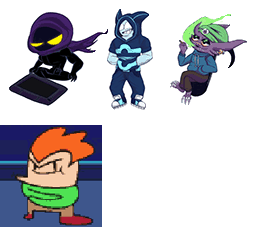
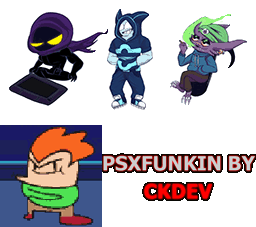
more menu work

Changed region(s): [[0.375, 0.6784, 1.0, 0.7709], [0.5312, 0.8018, 0.8438, 0.8943]]

diff --git a/src/menu.c b/src/menu.c
@@ -167,7 +167,7 @@ static void Menu_Tab(s8 *movetab, boolean moving, boolean flip, u16 x, u8 y)
 	if (flip)
 	tab_dst.h = -tab_dst.h;
 
-    FntPrint("movetab %d", *movetab);
+   // FntPrint("movetab %d", *movetab);
 
 	//draw tab
 	Gfx_DrawTex(&menu.tex_menu0, &tab_src, &tab_dst);
@@ -424,7 +424,6 @@ void Menu_Tick(void)
 	{
 		case MenuPage_Opening:
 		{
-             menu.swapmusic = false;
 			u16 beat = stage.song_step >> 2;
 			
 			//Start title screen if opening ended
@@ -549,6 +548,7 @@ void Menu_Tick(void)
 	//Fallthrough
 		case MenuPage_Title:
 		{
+			 menu.swapmusic = false;
 			//Initialize page
 			if (menu.page_swap)
 			{
@@ -659,7 +659,7 @@ void Menu_Tick(void)
 			}
 
 			//Initialize page
-			if (menu.page_swap && menu.swapmusic == false || menu.page_swap && menu.swapmusic == true)
+			if (menu.page_swap && menu.swapmusic == false)
 			{
 			Audio_StopXA();
 			Audio_PlayXA_Track(XA_Nexus, 0x80, 2, true);
@@ -738,15 +738,19 @@ void Menu_Tick(void)
 
 			//draw "mad"
 			RECT madness0_src = {0, 0, 138, 33};
-			Gfx_BlitTex(&menu.tex_menu0, &madness0_src, 10, 10);
+			Gfx_BlitTex(&menu.tex_menu0, &madness0_src, 10, 15);
 
 			//draw "ness"
 			RECT madness1_src = {0, 36, 103, 33};
-			Gfx_BlitTex(&menu.tex_menu0, &madness1_src, madness0_src.w + 11, 10);
+			Gfx_BlitTex(&menu.tex_menu0, &madness1_src, madness0_src.w + 11, 15);
 
 			//draw "difficulty"
 			RECT difficulty_src = { 1, 25, 85, 20};
 			Gfx_BlitTex(&menu.tex_menu1, &difficulty_src, 170, 90);
+
+			//draw CuckyDev Credits
+			RECT ckdev_src = { 102, 153, 154, 48 };
+			Gfx_BlitTex(&menu.tex_credits1, &ckdev_src, 80, 178);
 
 			//draw "difficulty lines"
 			RECT lines_src = { 104, 41, 145, 10 };
